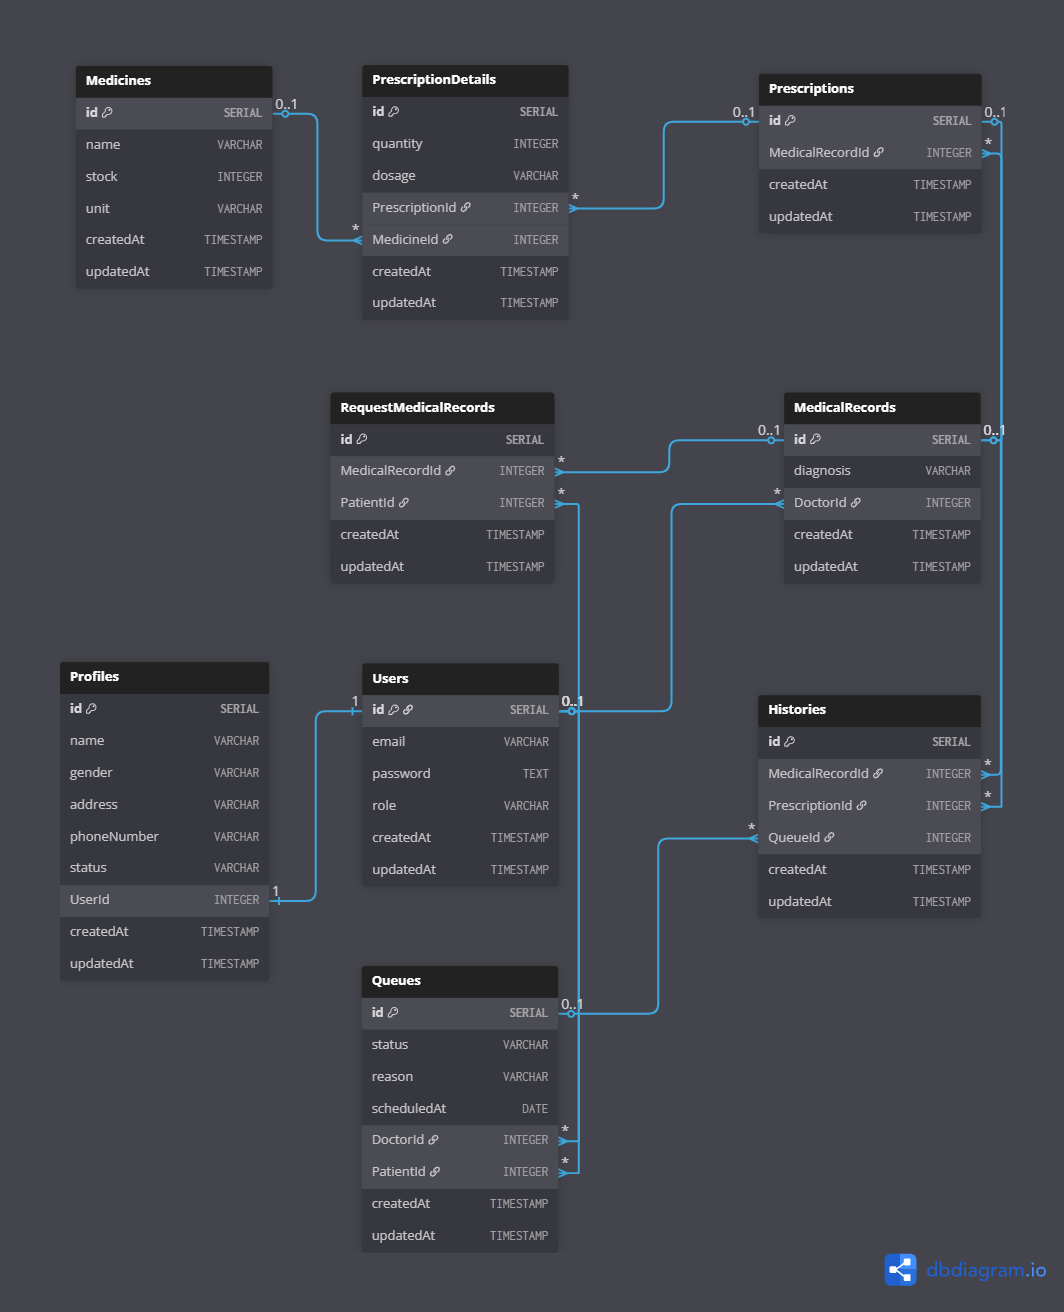
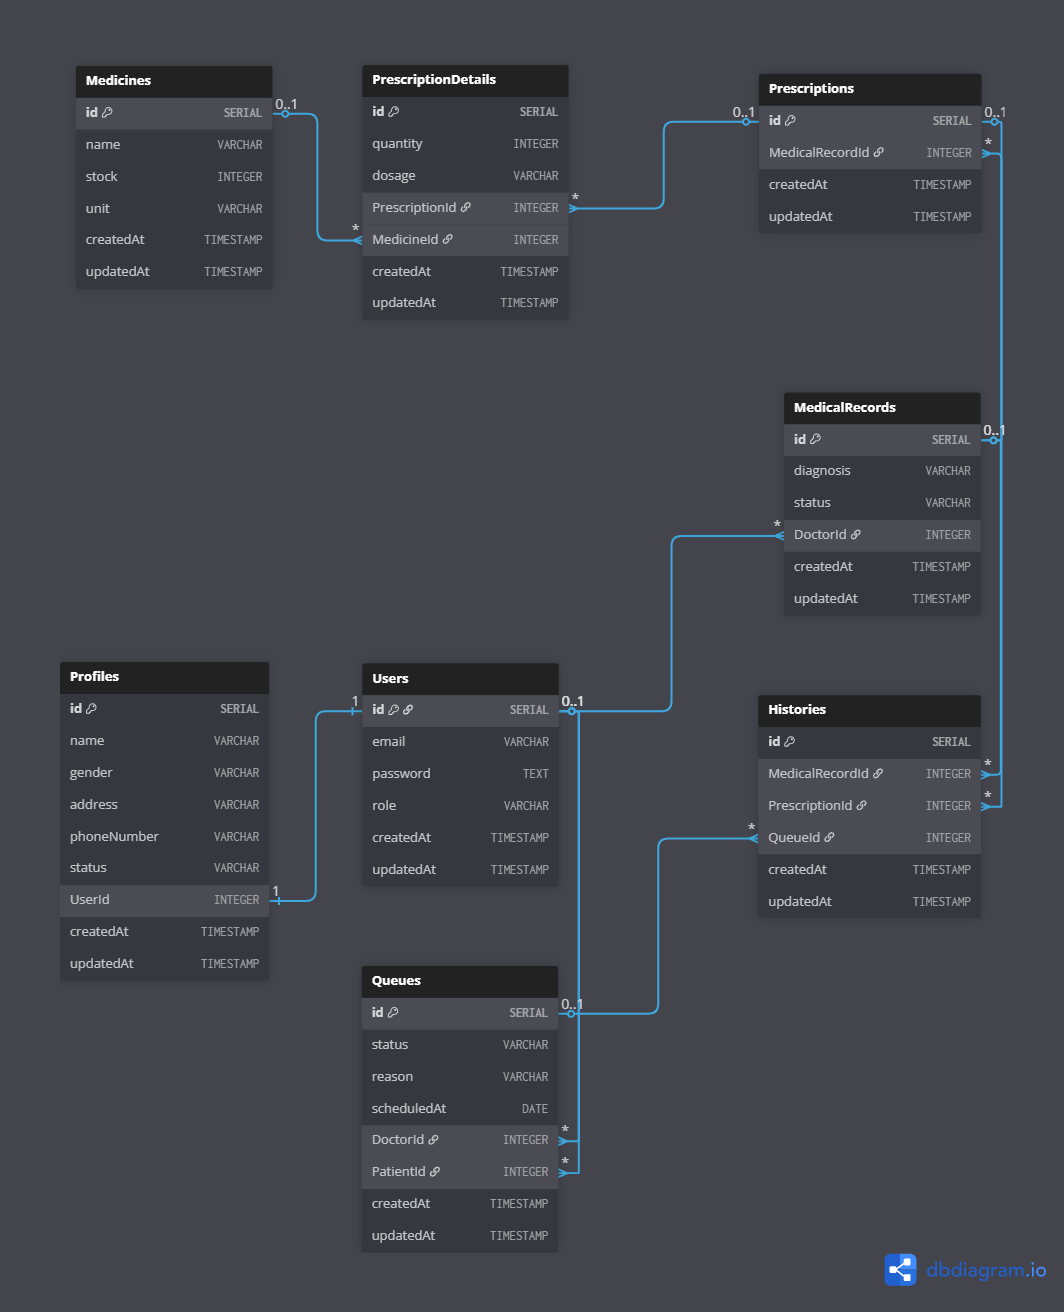
fix: fix erd, and erd relation

diff --git a/models/user.js b/models/user.js
@@ -24,11 +24,6 @@ module.exports = (sequelize, DataTypes) => {
         foreignKey: "DoctorId",
         as: 'Doctor'
       });
-
-      User.hasMany(models.RequestMedicalRecords, {
-        foreignKey: "PatientId",
-        as: 'Patient'
-      });
     }
   }
   User.init({

diff --git a/migrations/20250728105558-create-medical-record.js b/migrations/20250728105558-create-medical-record.js
@@ -12,6 +12,9 @@ module.exports = {
       diagnosis: {
         type: Sequelize.STRING
       },
+      status: {
+        type: Sequelize.STRING
+      },
       DoctorId: {
         type: Sequelize.INTEGER,
         references: {

diff --git a/models/medicalrecord.js b/models/medicalrecord.js
@@ -27,6 +27,7 @@ module.exports = (sequelize, DataTypes) => {
   }
   MedicalRecord.init({
     diagnosis: DataTypes.STRING,
+    status: DataTypes.STRING,
     DoctorId: DataTypes.INTEGER,
   }, {
     sequelize,
